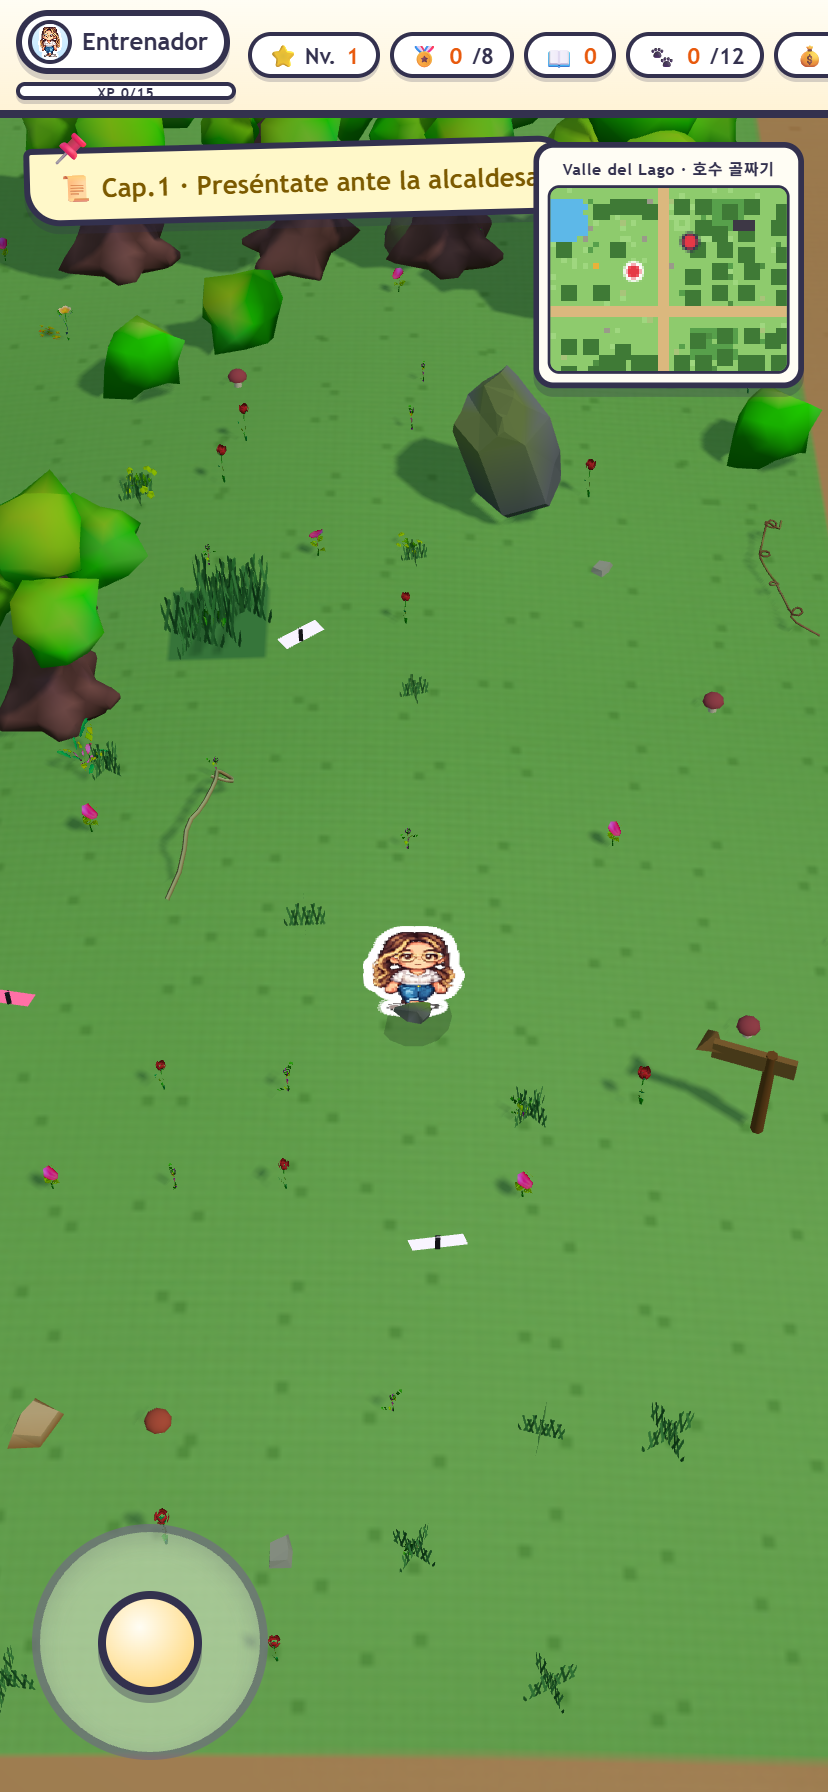
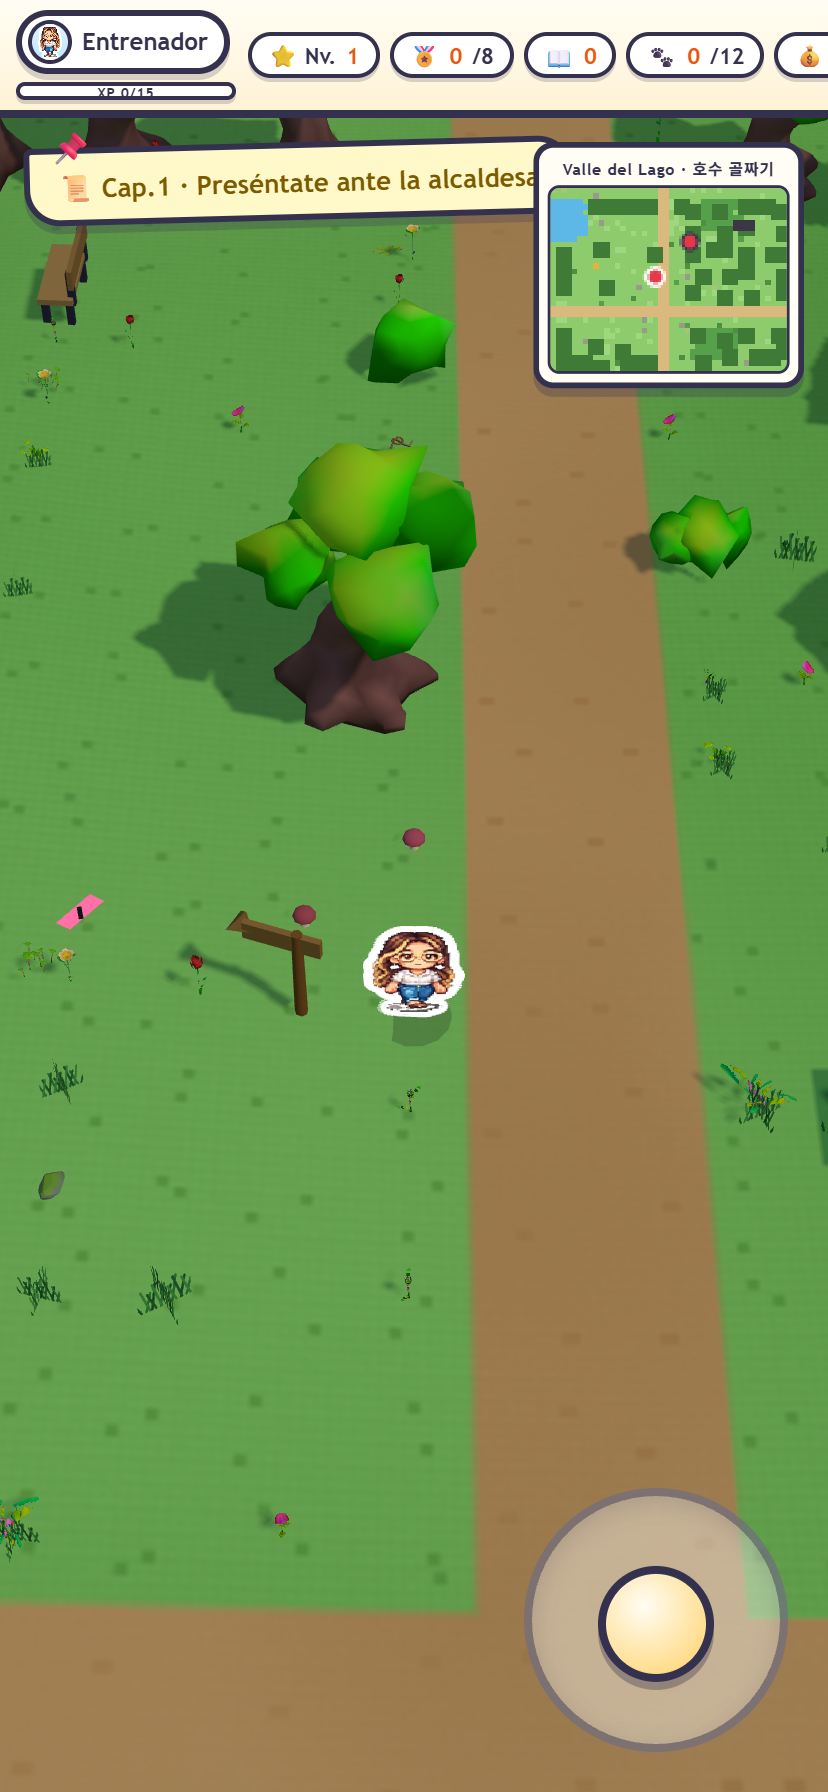
Joystick a la derecha y sin recortes en móvil
El joystick se cortaba en el teléfono, y la causa no era su posición: #app
medía 100vh, que en un móvil equivale a la pantalla COMO SI la barra del
navegador estuviera escondida. El fondo de la app quedaba por debajo de lo
que se ve y se llevaba por delante lo que hubiera abajo.

- #app y body pasan a 100dvh, que sigue al viewport de verdad, dejando 100vh
  detrás como respaldo para navegadores viejos. 100vw pasa a 100%, que
  además no cuenta la barra de scroll.
- El joystick se muda a la esquina inferior derecha y sus márgenes suman el
  área segura (muesca y barra inferior del iPhone).
- Su tamaño se ata al lado corto de la pantalla, min(132px, 32vmin), en vez
  de a números fijos por media query; la bola y su recorrido van en
  proporción, así que escala solo.

check_joystick.mjs pasa a probar seis tamaños —desde un 320x568 hasta una
tablet apaisada— y comprueba en cada uno que la caja del joystick entra
entera en el viewport, que queda en la mitad derecha y que mantiene un
tamaño usable para el pulgar. Los 18 en verde, más las cuatro direcciones,
la parada al soltar y la zona muerta. check_region, smoke_world y
perf_world siguen limpios a 144 FPS.

diff --git a/css/style.css b/css/style.css
@@ -36,13 +36,19 @@ html,body{
 }
 body{
   min-height:100vh;
+  min-height:100dvh;
   background:
     radial-gradient(900px 500px at 50% -10%, #fff8 0%, transparent 60%),
     linear-gradient(180deg,var(--sky1) 0%,var(--sky2) 100%);
 }
 
 /* Screens */
-#app{width:100vw;height:100vh;position:relative;overflow:hidden}
+/* 100vh en un móvil mide la pantalla COMO SI la barra del navegador estuviera
+   escondida, así que el fondo de la app queda por debajo de lo que se ve y
+   recorta lo que haya abajo (el joystick, sin ir más lejos). dvh sigue al
+   viewport de verdad; se deja vh detrás como respaldo para navegadores viejos.
+   100vw además cuenta la barra de scroll, por eso va 100%. */
+#app{width:100%;height:100vh;height:100dvh;position:relative;overflow:hidden}
 .screen{position:absolute;inset:0;display:none;padding:0}
 .screen.active{display:flex;flex-direction:column}
 
@@ -211,11 +217,17 @@ textarea.input, #import-text{
 
 /* D-pad táctil */
 /* ===== Joystick táctil =====
-   Ocupa una esquina generosa de la pantalla para que el pulgar lo alcance
-   sin mirar; el aro es la zona de arrastre y la bola sigue al dedo. */
+   Va abajo a la derecha, donde cae el pulgar. El tamaño se ata al lado corto
+   de la pantalla y no a un número fijo, y los márgenes suman el área segura
+   (muesca y barra inferior del iPhone), para que no se recorte en ningún
+   teléfono. Todo lo de dentro va en porcentajes: así escala solo. */
 .joystick{
-  position:absolute;left:22px;bottom:22px;z-index:6;
-  width:132px;height:132px;touch-action:none;user-select:none;
+  position:absolute;z-index:6;
+  right:calc(20px + env(safe-area-inset-right, 0px));
+  bottom:calc(20px + env(safe-area-inset-bottom, 0px));
+  width:min(132px, 32vmin);
+  aspect-ratio:1;
+  touch-action:none;user-select:none;
   -webkit-user-select:none;-webkit-tap-highlight-color:transparent;
 }
 .joystick[hidden]{display:none}
@@ -226,8 +238,10 @@ textarea.input, #import-text{
   box-shadow:inset 0 3px 12px rgba(51,49,78,.18);
 }
 .joy-knob{
-  position:absolute;left:50%;top:50%;width:58px;height:58px;
-  margin:-29px 0 0 -29px;border-radius:50%;
+  /* inset+margin:auto lo deja centrado, así el translate del arrastre parte
+     del centro sin pelearse con ningún otro transform */
+  position:absolute;inset:0;margin:auto;
+  width:44%;height:44%;border-radius:50%;
   background:radial-gradient(circle at 38% 32%, #fffdf4, var(--accent2, #ffd94a));
   border:4px solid var(--rim);
   box-shadow:0 4px 0 rgba(51,49,78,.35);
@@ -235,10 +249,6 @@ textarea.input, #import-text{
 }
 .joystick.grabbed .joy-knob{transition:none;box-shadow:0 2px 0 rgba(51,49,78,.35)}
 .joystick.grabbed .joy-ring{background:rgba(255,253,244,.62)}
-@media (max-width:640px){
-  .joystick{width:118px;height:118px;left:16px;bottom:16px}
-  .joy-knob{width:52px;height:52px;margin:-26px 0 0 -26px}
-}
 
 /* ===== Banner de misión (nota adhesiva) ===== */
 .quest-banner{

diff --git a/js/world.js b/js/world.js
@@ -3525,7 +3525,9 @@ const World = (() => {
       if (Dialog.open){ advanceDialog(); return; }
       const r = pad.getBoundingClientRect();
       cx = r.left + r.width/2; cy = r.top + r.height/2;
-      radius = r.width/2 - 12;
+      // recorrido de la bola: hasta el aro menos su propio radio (44%/2), en
+      // proporción, para que valga igual sea cual sea el tamaño del pad
+      radius = r.width * 0.28;
       active = e.pointerId;
       pad.classList.add("grabbed");
       pad.setPointerCapture(e.pointerId);

diff --git a/README.md b/README.md
@@ -25,7 +25,7 @@ mascotas, historia por capítulos y práctica de voz.
   suelo y lámina de agua comparten la misma silueta.
 - **Diorama del jardín** (`js/envGarden.js`) emergiendo del mar al suroeste y **casa en el
   mar** (`js/seaHouse.js`) en la playa, como piezas de paisaje de fondo.
-- **Joystick táctil** en teléfonos y tablets (esquina inferior izquierda). En escritorio
+- **Joystick táctil** en teléfonos y tablets (esquina inferior derecha). En escritorio
   no se dibuja: sobra con el teclado. La barra superior se compacta en una sola fila.
 - Depuración: `index.html?autostart=1` entra directo al mapa; admite `&tp=x,y`,
   `&enter=gym|cave|shop|cafe|alcaldia|academia|norebang|home` y `&test=battle|capture`.
